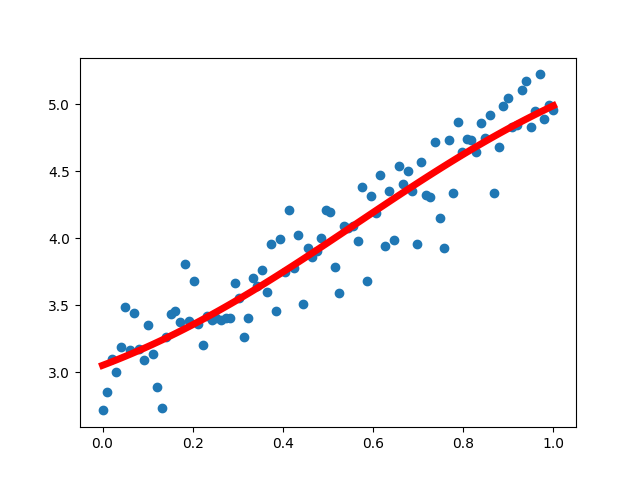
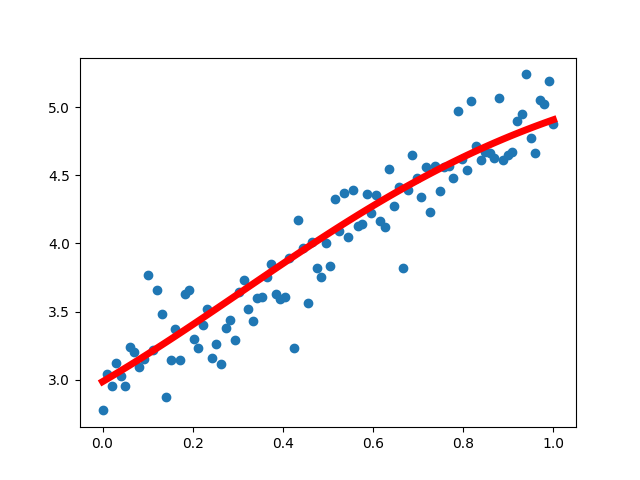
Add and veriy residual network

diff --git a/residual-12/main.py b/residual-12/main.py
@@ -1,0 +1,206 @@
+import torch
+import torch.nn as nn
+import numpy as np
+import matplotlib.pyplot as plt
+from matplotlib.patches import Rectangle
+from matplotlib.table import Table
+from matplotlib.font_manager import FontProperties
+import csv
+
+# 设置中文字体（macOS兼容）
+plt.rcParams["font.family"] = ["Heiti TC", "Arial Unicode MS"]
+plt.rcParams["axes.unicode_minus"] = False  # 解决负号显示问题
+
+# 生成线性样本数据
+x = torch.unsqueeze(torch.linspace(0, 1, 100), dim=1)  # shape (100, 1)
+y = 2 * x + 3 + 0.2 * torch.randn(x.size())  # 简单线性函数 y=2x+3 加噪声
+
+test_x = x
+test_y = y
+
+class UnifiedLinearModel(nn.Module):
+    def __init__(self, use_residual=False):
+        super(UnifiedLinearModel, self).__init__()
+        # 定义5个线性层
+        self.linear1 = nn.Linear(1, 1)
+        self.linear2 = nn.Linear(1, 1)
+        self.linear3 = nn.Linear(1, 1)
+        self.linear4 = nn.Linear(1, 1)
+        self.linear5 = nn.Linear(1, 1)
+        self.linear6 = nn.Linear(1, 1)
+        self.sigmoid = nn.Sigmoid()
+        self.use_residual = use_residual
+        
+        # 所有层权重初始化为正态分布(0,1)，偏置初始化为0
+        for m in [self.linear1, self.linear2, self.linear3, self.linear4, self.linear5, self.linear6]:
+            nn.init.normal_(m.weight, mean=0.0, std=1.0)
+            nn.init.zeros_(m.bias)
+                
+    def forward(self, x):
+        x1 = self.linear1(x)
+        x1 = self.sigmoid(x1)
+        x2 = self.linear2(x1)
+        x2 = self.sigmoid(x2)
+        x3 = self.linear3(x2)
+        x3 = self.sigmoid(x3)
+        x4 = self.linear4(x3)
+        x4 = self.sigmoid(x4)
+        x5 = self.linear5(x4)
+        x5 = self.sigmoid(x5)
+        if self.use_residual:
+            x5 = x2 + x5  # 残差连接：第二个linear到最后一个linear前
+        x6 = self.linear6(x5)
+        return x6
+
+# 提取模型参数
+def get_parameters(model):
+    params = {}
+    for name, param in model.named_parameters():
+        params[name] = param.item()
+    return params
+
+# 初始化两个模型
+residual_model = UnifiedLinearModel(use_residual=True)
+no_residual_model = UnifiedLinearModel(use_residual=False)
+
+# 保存初始权重
+residual_initial_params = get_parameters(residual_model)
+no_residual_initial_params = get_parameters(no_residual_model)
+
+# 优化器和损失函数
+criterion = nn.MSELoss()
+residual_optimizer = torch.optim.SGD(residual_model.parameters(), lr=0.2)
+no_residual_optimizer = torch.optim.SGD(no_residual_model.parameters(), lr=0.2)
+
+# 训练两个模型并记录损失
+epochs = 1000
+residual_losses = []
+no_residual_losses = []
+
+print('开始训练...')
+for epoch in range(epochs):
+    # 训练残差模型
+    residual_pred = residual_model(x)
+    residual_loss = criterion(residual_pred, y)
+    residual_optimizer.zero_grad()
+    residual_loss.backward()
+    residual_optimizer.step()
+    residual_losses.append(residual_loss.item())
+    
+    # 训练非残差模型
+    no_residual_pred = no_residual_model(x)
+    no_residual_loss = criterion(no_residual_pred, y)
+    no_residual_optimizer.zero_grad()
+    no_residual_loss.backward()
+    no_residual_optimizer.step()
+    no_residual_losses.append(no_residual_loss.item())
+    
+    if (epoch+1) % 100 == 0:
+        print(f'Epoch [{epoch+1}/{epochs}], ' +
+              f'Residual Loss: {residual_loss.item():.4f}, ' +
+              f'No Residual Loss: {no_residual_loss.item():.4f}')
+
+# 计算权重变化量
+def calculate_weight_changes(initial_params, final_params):
+    changes = {}
+    for name in initial_params:
+        # 同时考虑权重和偏置的变化
+        changes[name] = abs(final_params[name] - initial_params[name])
+    return changes
+
+residual_params = get_parameters(residual_model)
+no_residual_params = get_parameters(no_residual_model)
+
+# 计算权重变化量
+residual_changes = calculate_weight_changes(residual_initial_params, residual_params)
+no_residual_changes = calculate_weight_changes(no_residual_initial_params, no_residual_params)
+
+# 绘制Loss对比曲线
+plt.figure(figsize=(10, 6))
+plt.plot(residual_losses, label='带残差连接')
+plt.plot(no_residual_losses, label='无残差连接')
+plt.title('训练损失对比')
+plt.xlabel('Epoch')
+plt.ylabel('Loss')
+plt.legend()
+plt.grid(True, linestyle='--', alpha=0.7)
+plt.tight_layout()
+plt.savefig('loss_comparison.png')
+plt.close()
+
+# 绘制权重变化量对比图
+plt.figure(figsize=(14, 6))
+layers = ['linear1.weight', 'linear1.bias', 'linear2.weight', 'linear2.bias',
+          'linear3.weight', 'linear3.bias', 'linear4.weight', 'linear4.bias',
+          'linear5.weight', 'linear5.bias', 'linear6.weight', 'linear6.bias']
+residual_values = [residual_changes[layer] for layer in layers]
+no_residual_values = [no_residual_changes[layer] for layer in layers]
+
+x = np.arange(len(layers))
+width = 0.35
+
+plt.bar(x - width/2, residual_values, width, label='带残差连接', color='skyblue')
+plt.bar(x + width/2, no_residual_values, width, label='无残差连接', color='lightgreen')
+
+plt.xlabel('参数名称')
+plt.ylabel('变化量 (绝对值)')
+plt.title('各层权重和偏置变化量对比')
+plt.xticks(x, layers, rotation=45, ha='right')
+plt.legend()
+plt.tight_layout()
+plt.savefig('weight_change_comparison.png')
+plt.close()
+
+# 绘制模型预测对比图
+plt.figure(figsize=(10, 6))
+plt.scatter(test_x.data.numpy(), test_y.data.numpy(), label='真实数据')
+plt.plot(test_x.data.numpy(), residual_model(test_x).data.numpy(), 'r-', lw=3, label='带残差连接')
+plt.plot(test_x.data.numpy(), no_residual_model(test_x).data.numpy(), 'b--', lw=3, label='无残差连接')
+plt.title('模型预测对比')
+plt.xlabel('x')
+plt.ylabel('y')
+plt.legend()
+plt.grid(True, linestyle='--', alpha=0.7)
+plt.tight_layout()
+plt.savefig('prediction_comparison.png')
+plt.close()
+
+# 绘制权重对比表格
+fig, ax = plt.subplots(figsize=(12, 6))
+ax.axis('off')
+
+# 表格数据
+layers = ['linear1.weight', 'linear1.bias', 'linear2.weight', 'linear2.bias',
+          'linear3.weight', 'linear3.bias', 'linear4.weight', 'linear4.bias',
+          'linear5.weight', 'linear5.bias', 'linear6.weight', 'linear6.bias']
+
+# 创建表格数据
+table_data = [['层名称', '带残差连接', '无残差连接']]
+for layer in layers:
+    table_data.append([
+        layer,
+        f'{residual_params[layer]:.6f}',
+        f'{no_residual_params[layer]:.6f}'
+    ])
+
+# 创建表格字体属性
+font = FontProperties(family=['Heiti TC', 'Arial Unicode MS'], size=10)
+
+# 创建表格
+table = ax.table(cellText=table_data, loc='center', cellLoc='center', colWidths=[0.3, 0.35, 0.35]) 
+table.auto_set_font_size(False)
+table.set_fontsize(10)
+table.set_fontsize(10)
+table.scale(1.2, 1.5)  # 调整表格大小
+
+plt.title('模型权重对比表', fontsize=14, pad=20)
+plt.tight_layout()
+plt.savefig('weight_comparison_table.png')
+plt.close()
+
+print('训练完成！生成的对比图表：')
+print('- loss_comparison.png: 损失对比曲线')
+print('- prediction_comparison.png: 模型预测对比')
+print('- weight_comparison_table.png: 权重对比表格')
+print('- model_architecture.png: 模型网络结构图')
+print('- weight_change_comparison.png: 权重变化量对比图')
